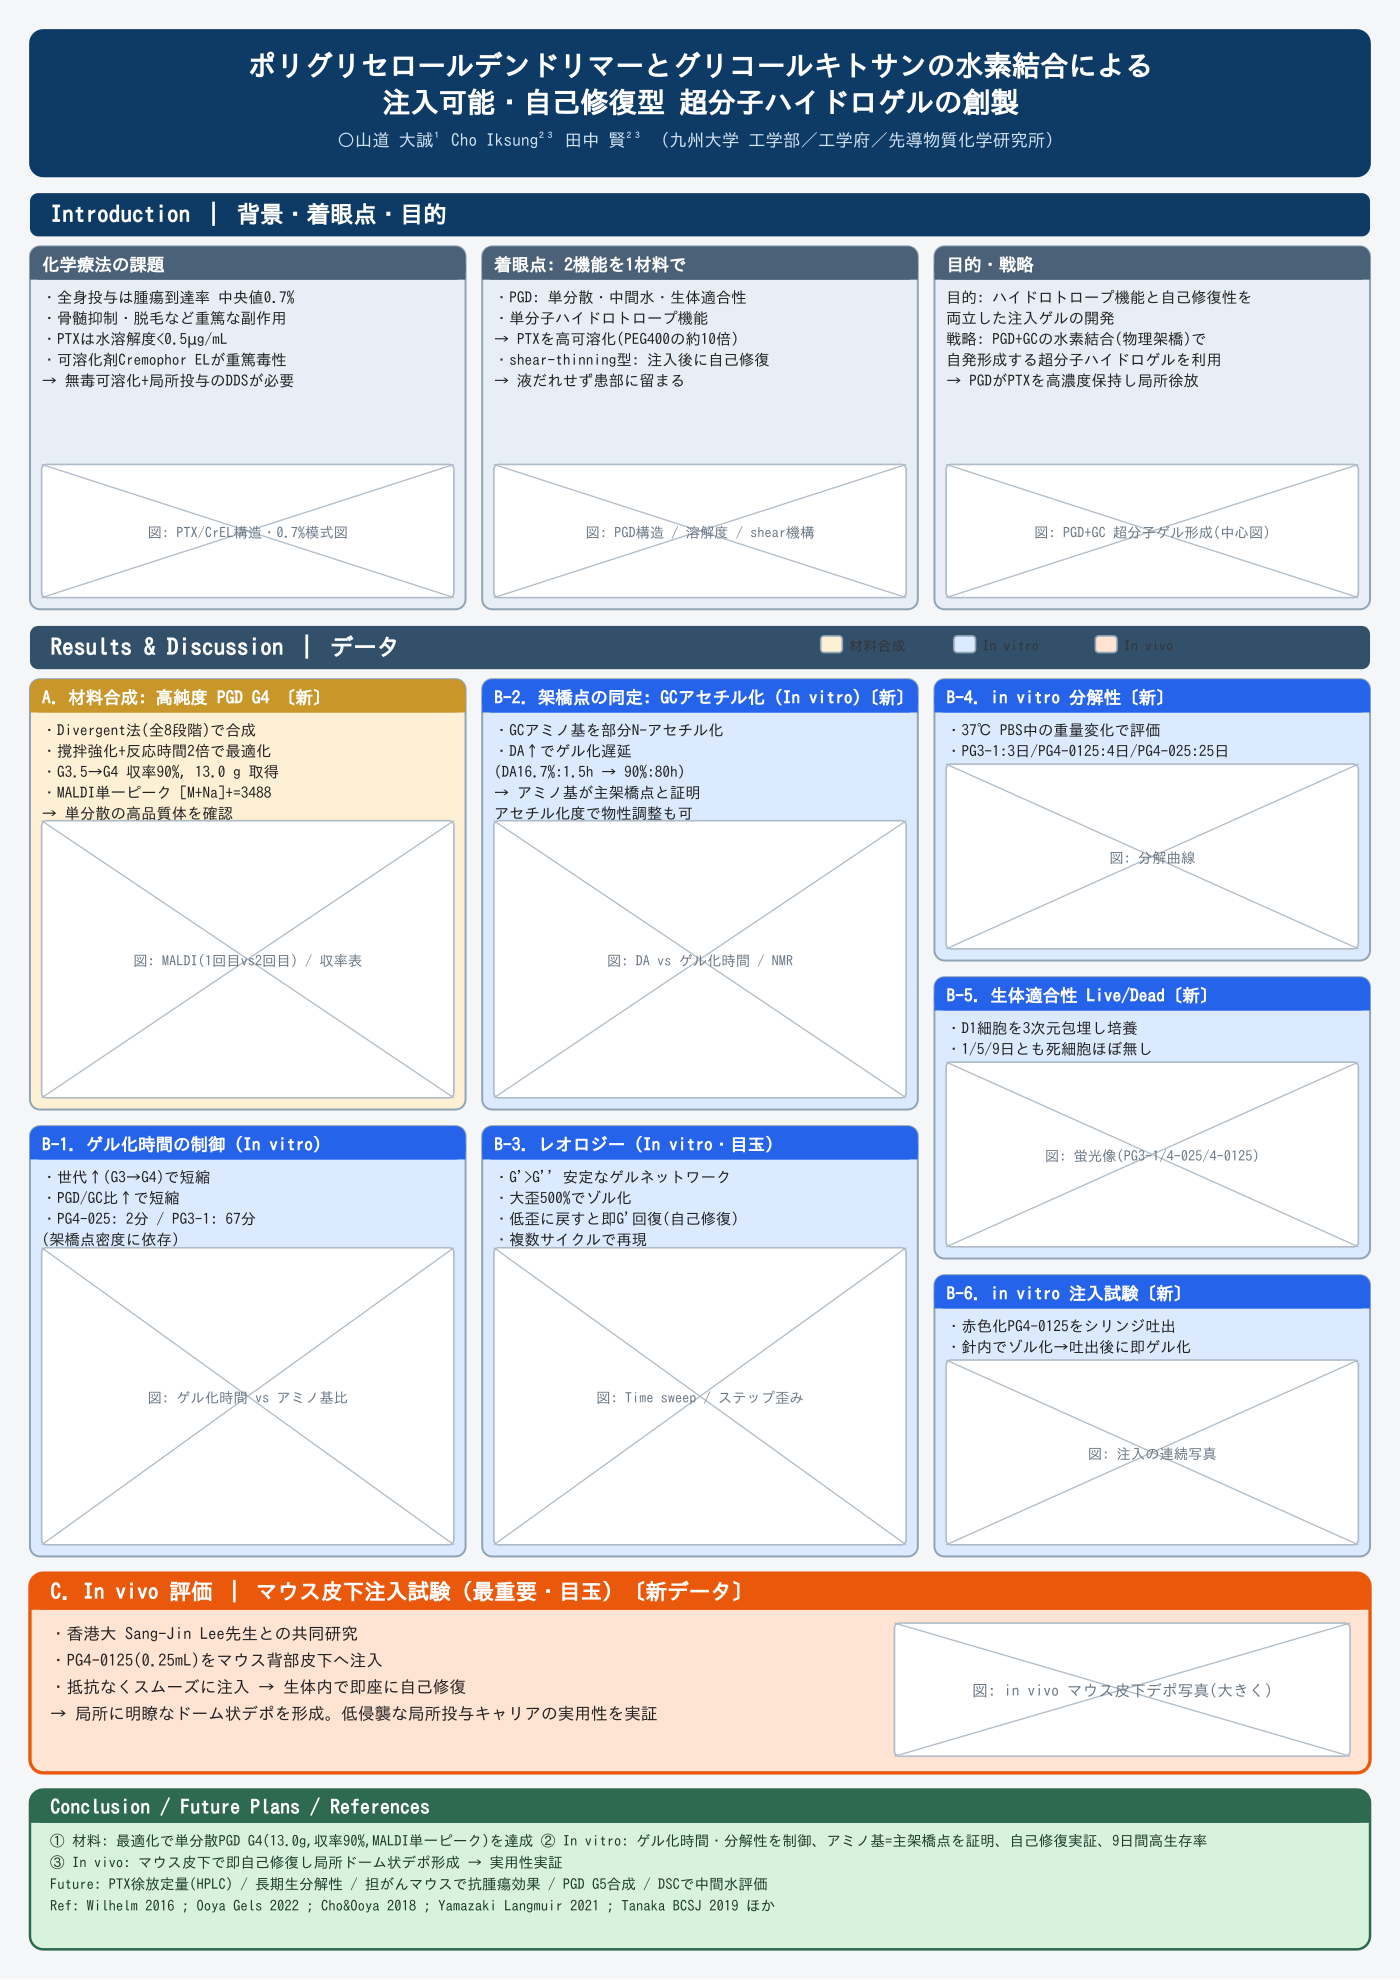
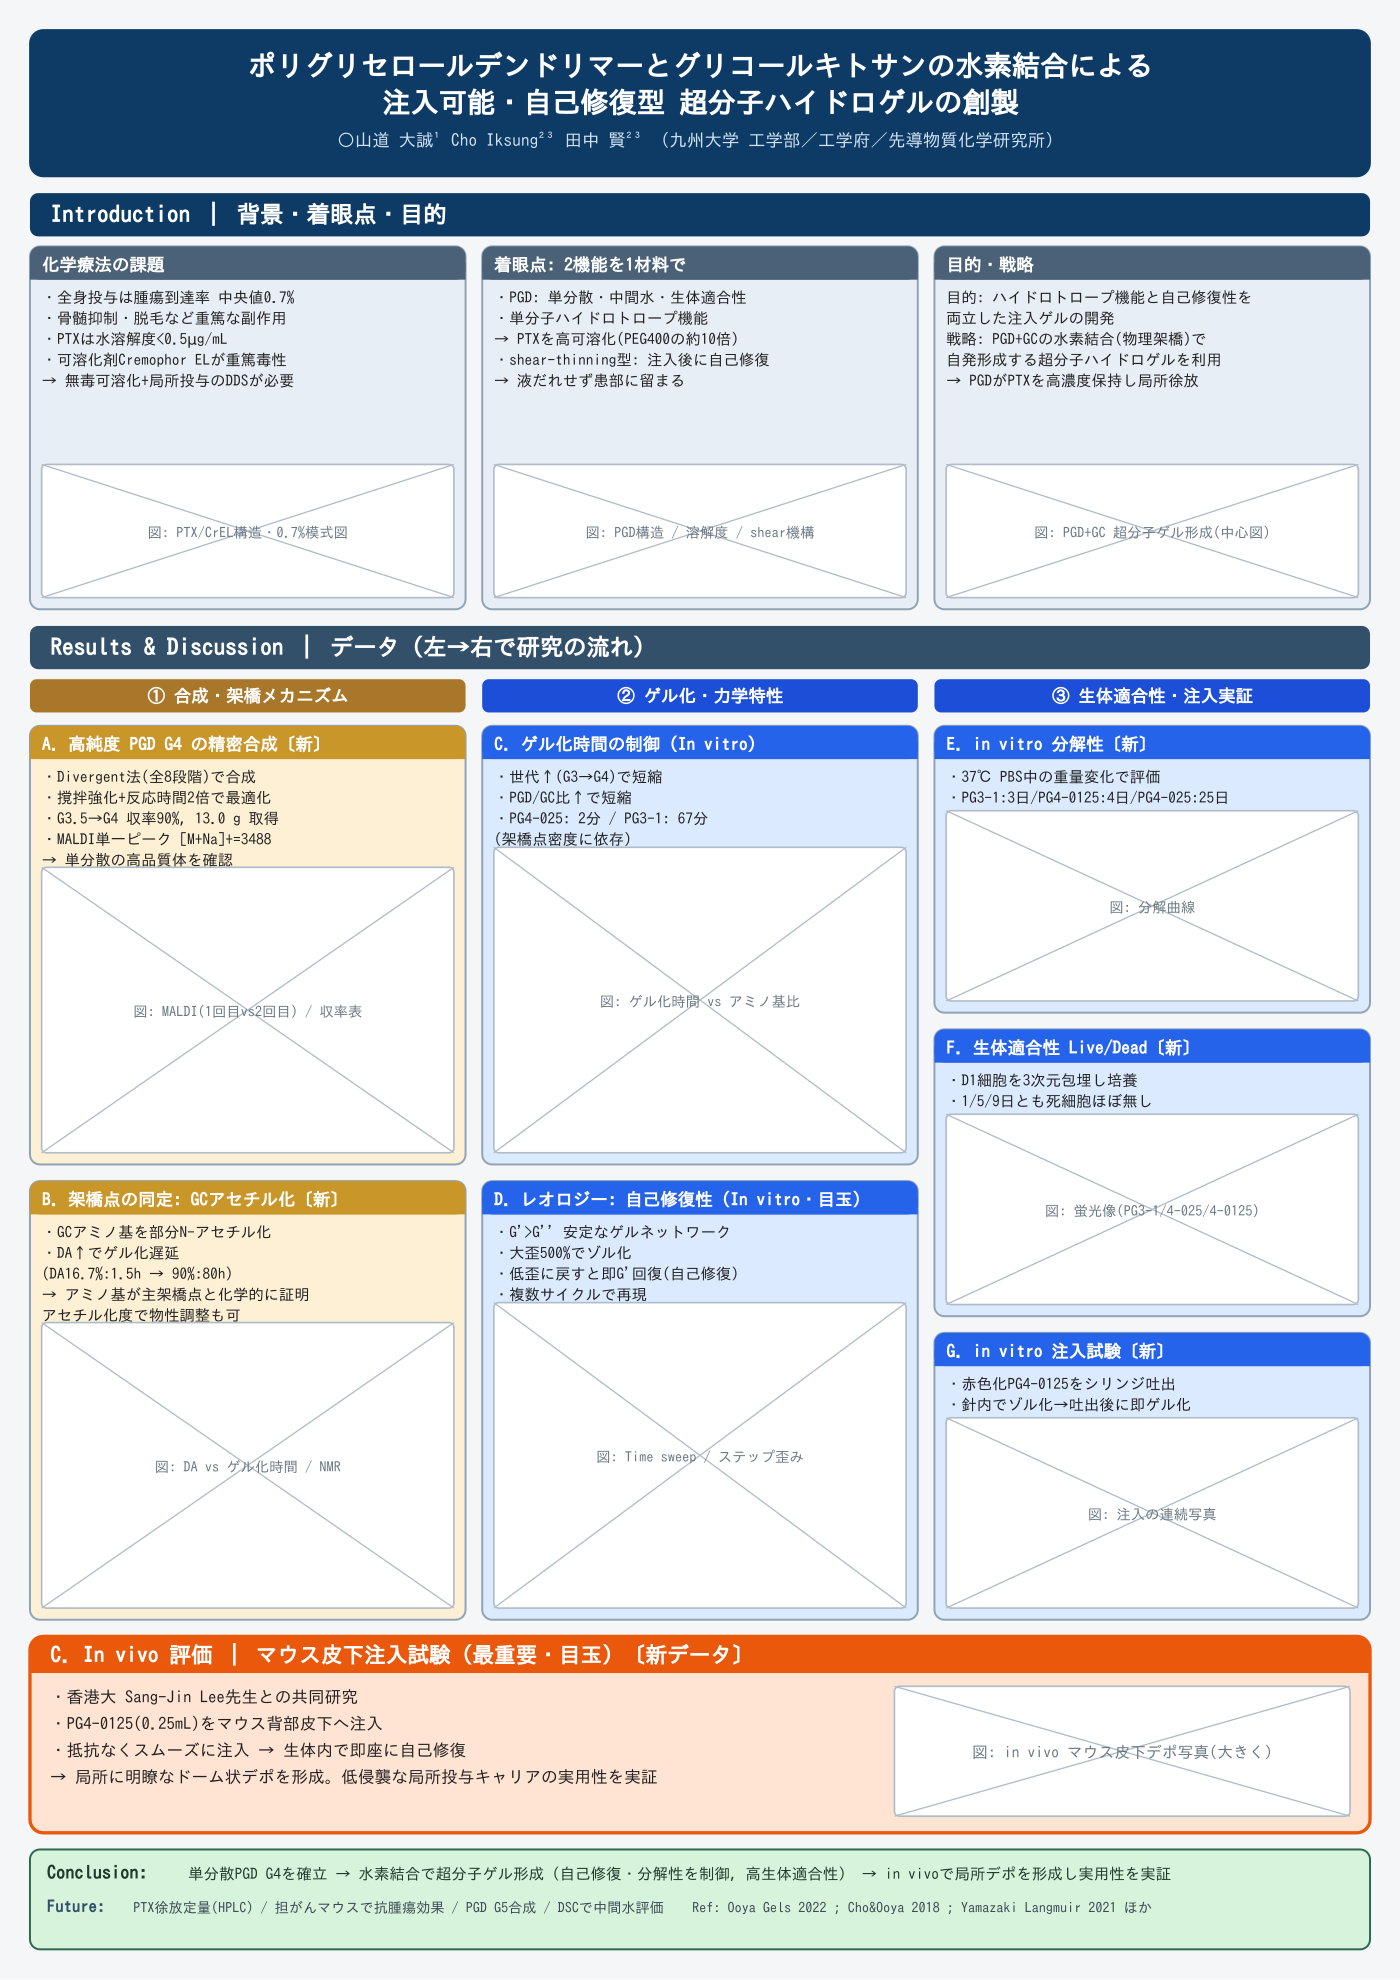
データをテーマ別の流れで再配置・Conclusionを縮小
In vitro内を①合成・架橋メカニズム ②ゲル化・力学特性 ③生体適合性・注入実証の
3テーマに整理し左→右の流れを明示。Conclusionは薄い帯に縮小。

https://claude.ai/code/session_01KuqqzALcpZUj35jC8BQaFN

diff --git a/poster/make_mockup.py b/poster/make_mockup.py
@@ -107,67 +107,78 @@ panel(sx2, sub_y, sub_w, sub_h, "目的・戦略",
 
 # ===== Results & Discussion(データ)=====
 ry = iy + ih + gap
-sectionbar(cx, ry, cw, "Results & Discussion ｜ データ", "#33506b")
+sectionbar(cx, ry, cw, "Results & Discussion ｜ データ（左→右で研究の流れ）", "#33506b")
 
 # 下部バンドの位置を先に確保
-band_conc_h = 96
-band_vivo_h = 120
+band_conc_h = 60      # 結論は薄い帯に縮小
+band_vivo_h = 118
 conc_y = H - M - band_conc_h
 vivo_y = conc_y - gap - band_vivo_h
 
 # データ用カラム領域
-data_y = ry + 32
-data_bottom = vivo_y - gap
-data_h = data_bottom - data_y
 colw = (cw - 2*gap) / 3
 dx0 = cx
 dx1 = cx + colw + gap
 dx2 = cx + 2*(colw + gap)
 
-# --- Col1: 材料合成 + In vitro ---
+# 各列にテーマ小見出し(流れを明示)
+theme_y = ry + 32
+theme_h = 20
+def themebar(x, label, color):
+    add(f'<rect x="{x}" y="{theme_y}" width="{colw}" height="{theme_h}" rx="4" fill="{color}"/>')
+    text(x+colw/2, theme_y+14, label, size=10.5, color="#ffffff", weight="bold", anchor="middle")
+themebar(dx0, "① 合成・架橋メカニズム", "#a9772a")
+themebar(dx1, "② ゲル化・力学特性", "#1d4ed8")
+themebar(dx2, "③ 生体適合性・注入実証", "#1d4ed8")
+
+data_y = theme_y + theme_h + 8
+data_bottom = vivo_y - gap
+data_h = data_bottom - data_y
+
+# --- Col1: 合成・架橋メカニズム(合成チック系)---
 p1 = (data_h - gap) / 2
-panel(dx0, data_y, colw, p1, "A. 材料合成: 高純度 PGD G4 〔新〕",
+panel(dx0, data_y, colw, p1, "A. 高純度 PGD G4 の精密合成〔新〕",
       ["・Divergent法(全8段階)で合成",
        "・撹拌強化+反応時間2倍で最適化",
        "・G3.5→G4 収率90%, 13.0 g 取得",
        "・MALDI単一ピーク [M+Na]+=3488",
        "  → 単分散の高品質体を確認"],
       C_MAT, bar="#c9962a", fig="図: MALDI(1回目vs2回目) / 収率表", fig_h=p1-92)
-panel(dx0, data_y+p1+gap, colw, p1, "B-1. ゲル化時間の制御 (In vitro)",
+panel(dx0, data_y+p1+gap, colw, p1, "B. 架橋点の同定: GCアセチル化〔新〕",
+      ["・GCアミノ基を部分N-アセチル化",
+       "・DA↑でゲル化遅延",
+       "  (DA16.7%:1.5h → 90%:80h)",
+       "→ アミノ基が主架橋点と化学的に証明",
+       "  アセチル化度で物性調整も可"],
+      C_MAT, bar="#c9962a", fig="図: DA vs ゲル化時間 / NMR", fig_h=p1-92)
+
+# --- Col2: ゲル化・力学特性(レオロジー系)---
+panel(dx1, data_y, colw, p1, "C. ゲル化時間の制御 (In vitro)",
       ["・世代↑(G3→G4)で短縮",
        "・PGD/GC比↑で短縮",
        "・PG4-025: 2分 / PG3-1: 67分",
        "  (架橋点密度に依存)"],
       C_VITRO, bar=C_VITRO_BAR, fig="図: ゲル化時間 vs アミノ基比", fig_h=p1-80)
-
-# --- Col2: In vitro ---
-panel(dx1, data_y, colw, p1, "B-2. 架橋点の同定: GCアセチル化 (In vitro)〔新〕",
-      ["・GCアミノ基を部分N-アセチル化",
-       "・DA↑でゲル化遅延",
-       "  (DA16.7%:1.5h → 90%:80h)",
-       "→ アミノ基が主架橋点と証明",
-       "  アセチル化度で物性調整も可"],
-      C_VITRO, bar=C_VITRO_BAR, fig="図: DA vs ゲル化時間 / NMR", fig_h=p1-92)
-panel(dx1, data_y+p1+gap, colw, p1, "B-3. レオロジー (In vitro・目玉)",
+panel(dx1, data_y+p1+gap, colw, p1, "D. レオロジー: 自己修復性 (In vitro・目玉)",
       ["・G'>G'' 安定なゲルネットワーク",
        "・大歪500%でゾル化",
        "・低歪に戻すと即G'回復(自己修復)",
        "・複数サイクルで再現"],
       C_VITRO, bar=C_VITRO_BAR, fig="図: Time sweep / ステップ歪み", fig_h=p1-80)
 
-# --- Col3: In vitro(分解性・Live/Dead・注入)---
+# --- Col3: 生体適合性・実用(分解性→安全性→注入)---
 p3 = (data_h - 2*gap) / 3
-panel(dx2, data_y, colw, p3, "B-4. in vitro 分解性〔新〕",
+panel(dx2, data_y, colw, p3, "E. in vitro 分解性〔新〕",
       ["・37℃ PBS中の重量変化で評価",
        "・PG3-1:3日/PG4-0125:4日/PG4-025:25日",
        "→ 滞留期間を数日〜数週間で制御"],
       C_VITRO, bar=C_VITRO_BAR, fig="図: 分解曲線", fig_h=p3-58)
-panel(dx2, data_y+p3+gap, colw, p3, "B-5. 生体適合性 Live/Dead〔新〕",
+panel(dx2, data_y+p3+gap, colw, p3, "F. 生体適合性 Live/Dead〔新〕",
       ["・D1細胞を3次元包埋し培養",
        "・1/5/9日とも死細胞ほぼ無し",
        "→ 化学架橋剤なしで高生存率"],
       C_VITRO, bar=C_VITRO_BAR, fig="図: 蛍光像(PG3-1/4-025/4-0125)", fig_h=p3-58)
-panel(dx2, data_y+2*(p3+gap), colw, p3, "B-6. in vitro 注入試験〔新〕",
+panel(dx2, data_y+2*(p3+gap), colw, p3, "G. in vitro 注入試験〔新〕",
       ["・赤色化PG4-0125をシリンジ吐出",
        "・針内でゾル化→吐出後に即ゲル化",
        "→ 液だれせず形状を保持"],
@@ -197,27 +208,18 @@ add(f'<line x1="{fvx}" y1="{fvy}" x2="{fvx+fvw}" y2="{fvy+fvh}" stroke="{C_FIGB}
 add(f'<line x1="{fvx}" y1="{fvy+fvh}" x2="{fvx+fvw}" y2="{fvy}" stroke="{C_FIGB}" stroke-width="0.8"/>')
 text(fvx+fvw/2, fvy+fvh/2+4, "図: in vivo マウス皮下デポ写真(大きく)", size=9.5, color="#6b7884", anchor="middle")
 
-# ===== Conclusion / Future / References(最下段・全幅)=====
-rect(cx, conc_y, cw, band_conc_h, C_CONC, stroke="#2d6a4f", rx=8, sw=1.5)
-add(f'<rect x="{cx}" y="{conc_y}" width="{cw}" height="20" rx="8" fill="#2d6a4f"/>')
-add(f'<rect x="{cx}" y="{conc_y+10}" width="{cw}" height="10" fill="#2d6a4f"/>')
-text(cx+12, conc_y+15, "Conclusion / Future Plans / References", size=12, color="#ffffff", weight="bold")
-ty = conc_y + 34
-for ln in ["① 材料: 最適化で単分散PGD G4(13.0g,収率90%,MALDI単一ピーク)を達成   "
-           "② In vitro: ゲル化時間・分解性を制御、アミノ基=主架橋点を証明、自己修復実証、9日間高生存率",
-           "③ In vivo: マウス皮下で即自己修復し局所ドーム状デポ形成 → 実用性実証",
-           "Future: PTX徐放定量(HPLC) / 長期生分解性 / 担がんマウスで抗腫瘍効果 / PGD G5合成 / DSCで中間水評価",
-           "Ref: Wilhelm 2016 ; Ooya Gels 2022 ; Cho&Ooya 2018 ; Yamazaki Langmuir 2021 ; Tanaka BCSJ 2019 ほか"]:
-    text(cx+12, ty, ln, size=8.8, color="#1d3a2a"); ty += 13
-
-# ===== 凡例(右下小)=====
-def legend(x, y, c, label):
-    add(f'<rect x="{x}" y="{y}" width="13" height="10" rx="2" fill="{c}" stroke="{C_BORDER}"/>')
-    text(x+17, y+9, label, size=8.5, color="#333")
-lgy = ry + 6
-legend(cx+cw-330, lgy, C_MAT, "材料合成")
-legend(cx+cw-250, lgy, C_VITRO, "In vitro")
-legend(cx+cw-165, lgy, C_VIVO, "In vivo")
+# ===== Conclusion(最下段・全幅・薄い帯)=====
+rect(cx, conc_y, cw, band_conc_h, C_CONC, stroke="#2d6a4f", rx=6, sw=1.2)
+text(cx+10, conc_y+18, "Conclusion:", size=11, color="#1d3a2a", weight="bold")
+text(cx+95, conc_y+18,
+     "単分散PGD G4を確立 → 水素結合で超分子ゲル形成（自己修復・分解性を制御, 高生体適合性）"
+     " → in vivoで局所デポを形成し実用性を実証",
+     size=9.3, color="#1d3a2a")
+text(cx+10, conc_y+38, "Future:", size=10, color="#33506b", weight="bold")
+text(cx+62, conc_y+38,
+     "PTX徐放定量(HPLC) / 担がんマウスで抗腫瘍効果 / PGD G5合成 / DSCで中間水評価　　"
+     "Ref: Ooya Gels 2022 ; Cho&Ooya 2018 ; Yamazaki Langmuir 2021 ほか",
+     size=8.5, color="#3a4a55")
 
 add('</svg>')
 with open("poster/poster_mockup.svg","w",encoding="utf-8") as f:
